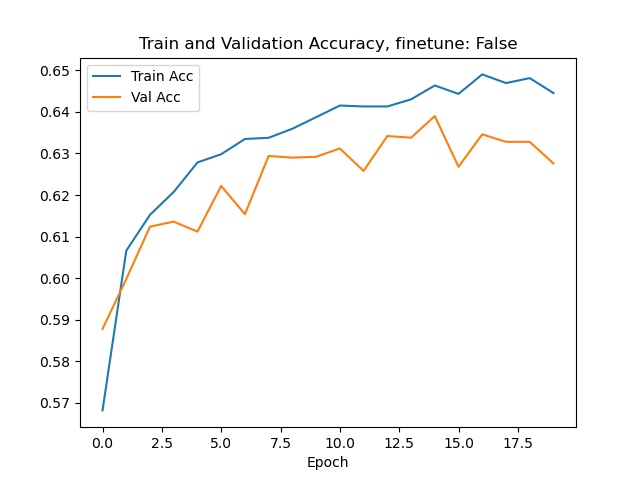
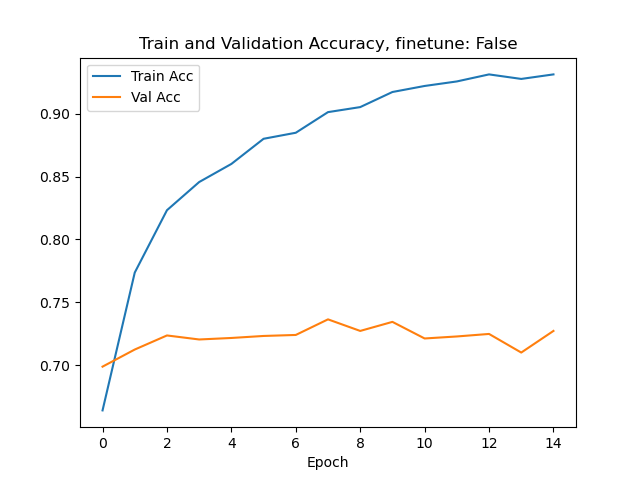
a lot of changes

diff --git a/HW3/hw3code/neural_net_cifar.py b/HW3/hw3code/neural_net_cifar.py
@@ -12,14 +12,14 @@ optim = torch.optim
 import matplotlib.pyplot as plt
 import copy
 
-TRANSFORMS  = {
+TRANSFORMS = {
     'train': transforms.Compose([
         transforms.RandomResizedCrop(224),
         transforms.RandomHorizontalFlip(),
         transforms.ToTensor(),
         transforms.Normalize([0.485, 0.456, 0.406], [0.229, 0.224, 0.225])
     ]),
-    'test': transforms.Compose([
+    'val': transforms.Compose([
         transforms.Resize(256),
         transforms.CenterCrop(224),
         transforms.ToTensor(),
@@ -32,15 +32,19 @@ DEVICE = torch.device("cuda:0" if torch.cuda.is_available() else "cpu")
 CIFAR_TRAIN = datasets.CIFAR10(root="./data",
                              train=True,
                              download=True,
-                             transform=TRANSFORMS["train"])
+                             transform=TRANSFORMS["val"])
 CIFAR_TEST = datasets.CIFAR10(root="./data",
                              train=True,
                              download=True,
-                             transform=TRANSFORMS["test"])
-CIFAR_TRAIN, CIFAR_VAL = \
-     torch.utils.data.random_split(CIFAR_TRAIN, [45000, 50000 - 45000],transforms=TRANSFORMS)
-# CIFAR_TRAIN, CIFAR_VAL = torch.utils.data.Subset(CIFAR_TRAIN, range(0, 5000, 3)),\
-#                          torch.utils.data.Subset(CIFAR_TRAIN, range(1, 5000, 3))
+                             transform=TRANSFORMS["val"])
+# CIFAR_TRAIN, CIFAR_VAL = \
+#      torch.utils.data.random_split(CIFAR_TRAIN,
+#                                    [45000, 50000 - 45000],
+#                                    transforms=TRANSFORMS["train"])
+CIFAR_TRAIN, CIFAR_VAL = torch.utils.data.Subset(CIFAR_TRAIN,
+                                                 range(0, 5000, 2)),\
+                         torch.utils.data.Subset(CIFAR_TRAIN,
+                                                 range(1, 5000, 2))
 CLASSES = \
     ('plane', 'car', 'bird', 'cat', 'deer', 'dog', 'frog', 'horse', 'ship', 'truck')
 
@@ -85,7 +89,7 @@ def Run(finetune:bool, batchsize:int, epochs:int):
                                          batch_size=BatchSize)
     TestSet = torch.utils.data.DataLoader(CIFAR_TEST, batch_size=BatchSize)
     ValTotal = len(ValSet)*BatchSize
-    Optimizer = optim.RMSprop(Model.Parameters, lr=0.0001)
+    Optimizer = optim.Adam(Model.Parameters, lr=0.1/len(TrainSet))
     Epochs = epochs
     TrainLosses, ValLosses, TrainAccuracy, ValAccuracy = [], [], [], []
     BestModel, BestAccuracy = None, 0
@@ -97,7 +101,7 @@ def Run(finetune:bool, batchsize:int, epochs:int):
             Loss.backward()
             Optimizer.step()
             with torch.no_grad():
-                AvgLoss += float(Model.FeedForward(X, y)) / len(TrainSet)
+                AvgLoss += float(Model.FeedForward(X, y)) / TrainTotal
                 Correct += float(torch.sum(Model.predict(X).to("cpu") == y))/TrainTotal
         TrainLosses.append(AvgLoss)
         TrainAccuracy.append(Correct)
@@ -107,7 +111,7 @@ def Run(finetune:bool, batchsize:int, epochs:int):
             with torch.no_grad():
                 Loss = Model.FeedForward(X, y)
                 Correct += float(torch.sum(Model.predict(X).to("cpu") == y))/ValTotal
-            AvgLoss += float(Loss)/len(ValSet)
+            AvgLoss += float(Loss)/ValTotal
         ValAccuracy.append(Correct)
         ValLosses.append(AvgLoss)
         print(f"Val Loss: {AvgLoss}, Val Acc: {ValAccuracy[-1]}")
@@ -148,8 +152,8 @@ def Run(finetune:bool, batchsize:int, epochs:int):
 
 
 def main():
-    Run(False, 100, epochs=40)
-    Run(True, 100, epochs=40)
+    Run(False, 20, epochs=15)
+    # Run(True, 100, epochs=15)
 
 if __name__ == "__main__":
     import os
